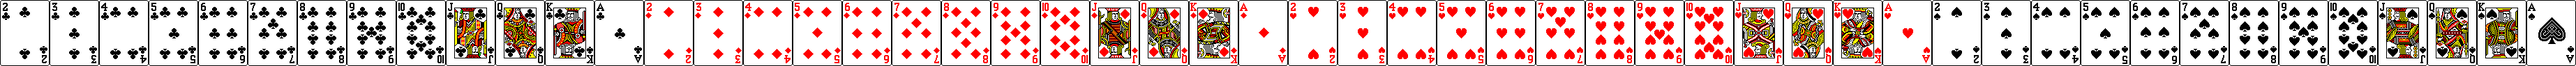
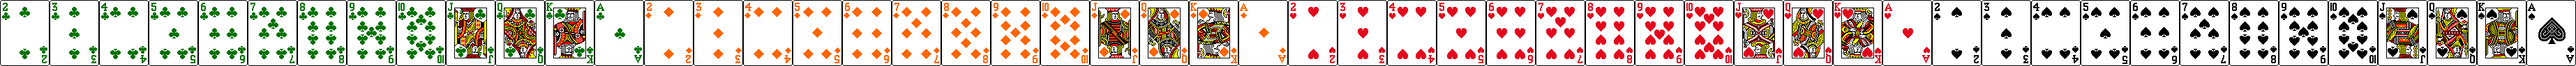
setup new nice colors for suits; minor fixes and rollbacks

diff --git a/js/table.js b/js/table.js
@@ -18,7 +18,7 @@ update_handlers["end.play"] = end_play;
 
 function on_body_load() {
     $("body").ajaxError(ajaxErrorHandler);
-    $(document.documentElement).keypress(updator)
+    $(document.documentElement).keypress(updator);
 }
 
 function updator(event) {
@@ -125,7 +125,6 @@ function process_lead(v) {
    	}
     }
 
-
     var player = v.player;
     var card = v.card;
     var next = v.next;
@@ -135,7 +134,7 @@ function process_lead(v) {
     }
     var card_div_id = "#card_" + card;
     var lead_div_id = "#" + player + "_lead";
-    $(lead_div_id).append($(card_div_id).detach());
+    $(lead_div_id).append($(card_div_id).detach().removeClass("highlighted").css("z-index", lead_count));
     var np;
     if (next == null) {
 	np = next_player(player);
@@ -160,7 +159,7 @@ function process_lead(v) {
 }
 
 function allow_cards(selector, player) {
-    $(selector).bind("click", player, highlight_for_lead)
+    return $(selector).bind("click", player, highlight_for_lead)
 	.bind("dblclick", player, do_lead).addClass("clickable");
 }
 
@@ -235,7 +234,8 @@ function kick_play(v) {
 function highlight_for_lead(event) {
     var splitted_id = event.target.id.split("_");
     var number = splitted_id[1];
-    $("#card_" + number).css("top", "-10%").bind("click", event.data, do_lead);    
+    allow_cards(".highlighted", event.data).removeClass("highlighted");
+    $("#card_" + number).addClass("highlighted").bind("click", event.data, do_lead);    
 }
 
 function do_bid(event) {

diff --git a/css/table.css b/css/table.css
@@ -11,7 +11,7 @@ body {
     cellpadding:3;
     width:100%;
     height: 99%;
-    background-color:green;
+    background-color:#099B09;
     text-align: center;
 }
 
@@ -80,9 +80,19 @@ body {
     left: 40px;
 }
 
+#lead_area{
+    margin: 0 auto;
+    width: 20%;
+}
+
 .lead {
     position: relative;
 }
+
+.highlighted{
+    top: -10%;
+}
+
 .clickable {
     cursor:pointer;
 }
@@ -97,7 +107,7 @@ body {
 
 .bidbox_pass {
     background-color: green;
-    border: 2px solid grey;
+    border: 1px solid grey;
     background-color: #00FF28;
     padding: 0px;
 }
@@ -123,7 +133,7 @@ body {
     border: 2px solid grey;
     text-align: center;
     display: inline-block;
-    background-color: #B09060;
+    background-color: #A3A098;
 }
 
 .bidbox_bid {

diff --git a/actions.py b/actions.py
@@ -82,7 +82,7 @@ def create_new_deck(user) :
 def create_new_deck_messages(user) :
     messages, vuln, dealer = create_new_deck(user)
     messages.append({'type': 'start.bidding', 'value' : {'vuln': vuln, 'dealer': dealer}})
-    messages.append({'type': 'start.play', 'value': {'contract': '1C', 'lead': 1}})
+    # messages.append({'type': 'start.play', 'value': {'contract': '1C', 'lead': 1}})
     return messages
 
 def add_players(hand_list) :
